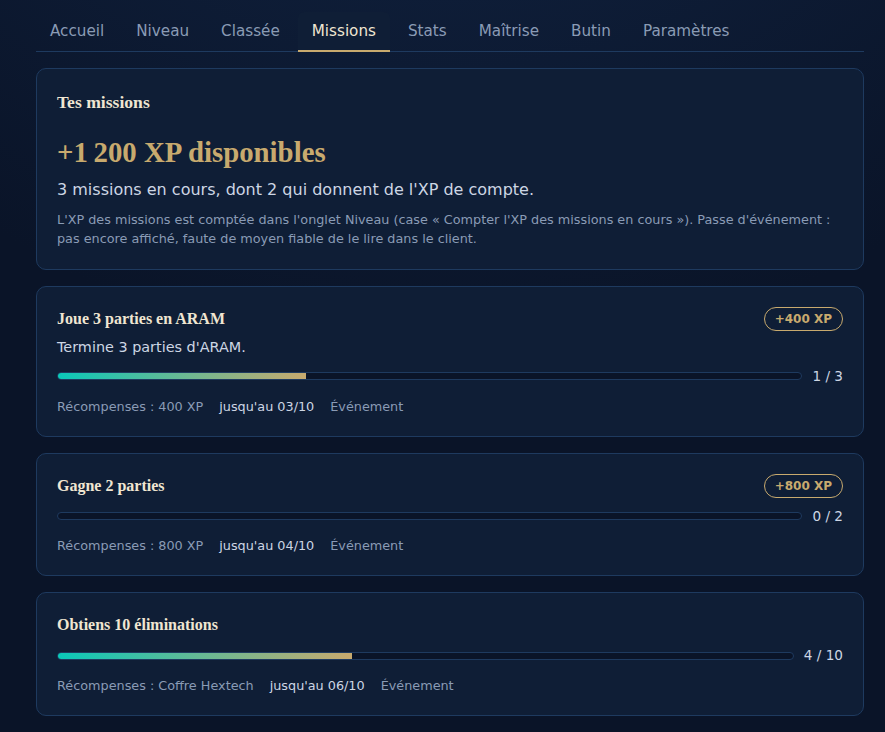
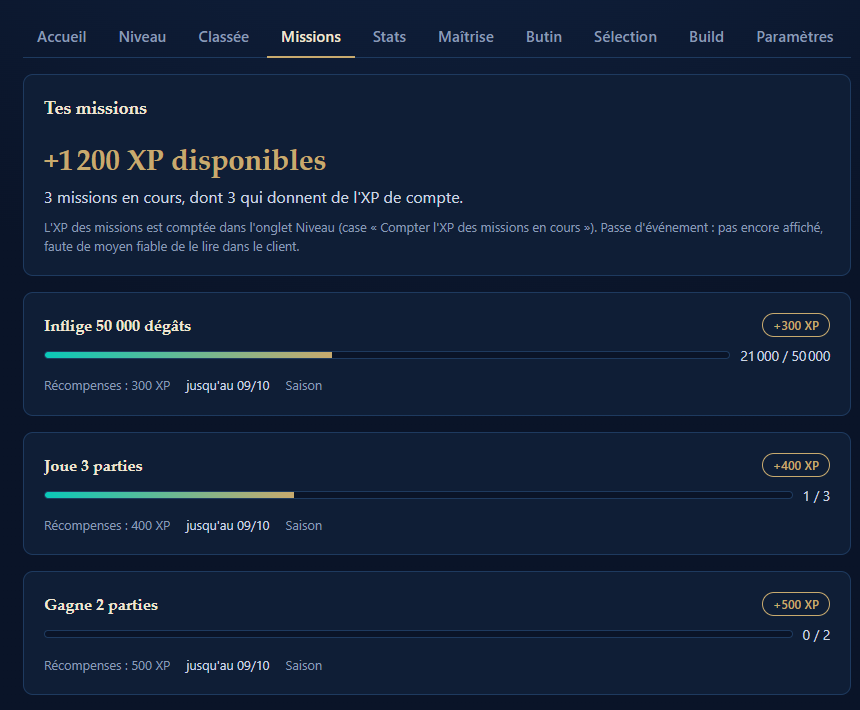
Captures à jour + correction du bandeau League », puis Commit to main et Push origin.

diff --git a/test/sondage.test.js b/test/sondage.test.js
@@ -39,7 +39,8 @@ async function fauxClient() {
   });
   await new Promise((ok) => serveur.listen(0, "127.0.0.1", ok));
   const dossier = fs.mkdtempSync(path.join(os.tmpdir(), "faux-lol-"));
-  fs.writeFileSync(path.join(dossier, "lockfile"), `LeagueClient:1:${serveur.address().port}:mdp:https`);
+  // Numéro de processus : celui du test (il existe vraiment), comme le vrai lockfile de League.
+  fs.writeFileSync(path.join(dossier, "lockfile"), `LeagueClient:${process.pid}:${serveur.address().port}:mdp:https`);
   return { etat, dossier, acceptations, fermer: () => new Promise((ok) => serveur.close(ok)) };
 }
 
@@ -120,6 +121,27 @@ test("sondage : League fermé ou qui ne répond pas encore -> état correct, auc
     sondage.arreter();
     await client.fermer();
   }
+});
+
+test("vieux lockfile (League fermé après un plantage) : considéré comme fermé, pas de « League démarre… »", async () => {
+  const dossier = fs.mkdtempSync(path.join(os.tmpdir(), "vieux-lockfile-"));
+  fs.writeFileSync(path.join(dossier, "lockfile"), "LeagueClient:999999999:65000:mdp:https"); // processus disparu
+  const etats = [];
+  const sondage = S.creerSondage({ dossierJeu: () => dossier, aEtat: (e) => etats.push(e), intervalleMs: 20 });
+  try {
+    sondage.demarrer();
+    await attendre(60);
+    assert.deepStrictEqual(sondage.etat(), { clientLance: false, clientRepond: false, phase: null });
+    assert.deepStrictEqual(S.etatPreparation({ ...sondage.etat(), directConnecte: false }), { pret: false, message: null }); // pas de bandeau
+  } finally {
+    sondage.arreter();
+  }
+});
+
+test("processus vivant : celui du test oui, un numéro disparu non, un numéro illisible on ne conclut pas", () => {
+  assert.strictEqual(S.processusVivantParDefaut(process.pid), true);
+  assert.strictEqual(S.processusVivantParDefaut(999999999), false);
+  assert.strictEqual(S.processusVivantParDefaut(NaN), true);
 });
 
 test("sondage : une erreur dans un rappel est signalée et ne casse pas le sondage", async () => {

diff --git a/sondage.js b/sondage.js
@@ -20,6 +20,23 @@ const { lireLockfile, appelerClient } = require("./lcu.js");
 const PHASES_FILE = ["Matchmaking", "ReadyCheck"];
 
 /**
+ * Le processus de League dont le numéro est écrit dans le lockfile existe-t-il encore ?
+ * Vu le 04/10/2026 : après un plantage ou un arrêt du PC, League peut laisser son lockfile ; l'appli croyait alors
+ * « League démarre… » indéfiniment alors qu'il était fermé. process.kill(pid, 0) n'arrête rien : il vérifie
+ * seulement que le processus existe (EPERM = il existe mais appartient à un autre utilisateur).
+ * Numéro absent ou illisible : on ne conclut pas (considéré vivant).
+ */
+function processusVivantParDefaut(pid) {
+  if (!Number.isInteger(pid) || pid <= 0) return true;
+  try {
+    process.kill(pid, 0);
+    return true;
+  } catch (erreur) {
+    return erreur.code === "EPERM";
+  }
+}
+
+/**
  * État de l'appli pour le bandeau de la page : { pret, message }.
  *  - League fermé : pas de bandeau (la carte « Ton compte » dit déjà « Lance League of Legends… ») ;
  *  - League lancé mais qui ne répond pas encore : il démarre ;
@@ -54,6 +71,7 @@ function creerSondage({
   intervalleMs = 1000,
   appeler = appelerClient,
   lire = lireLockfile,
+  processusVivant = processusVivantParDefaut,
 }) {
   let minuterie = null;
   let enMarche = false;
@@ -87,6 +105,7 @@ function creerSondage({
     let session;
     try {
       const connexion = lire(dossierJeu());
+      if (!processusVivant(connexion.pid)) throw new Error("vieux lockfile : League est fermé");
       etat.clientLance = true;
       const phase = await lireJson(connexion, "/lol-gameflow/v1/gameflow-phase");
       if (typeof phase === "string") {
@@ -132,4 +151,4 @@ function creerSondage({
   };
 }
 
-module.exports = { PHASES_FILE, etatPreparation, creerSondage };
+module.exports = { PHASES_FILE, processusVivantParDefaut, etatPreparation, creerSondage };

diff --git a/src/index.html b/src/index.html
@@ -505,8 +505,8 @@
             dans au moins 10 % des achats et sur 200 parties, classés par taux de victoire « prudent ».
           </p>
           <p class="aide">
-            Seules connexions à Internet de l'appli : elle n'envoie que le champion, le rôle et le mode, jamais ton
-            pseudo. Runes et set d'objets sont autorisés par Riot (comme Blitz ou Porofessor) ; tes pages et tes sets
+            Seules connexions à Internet de l'appli (Lolalytics, OP.GG, et arammayhem.com pour les augments) : elle
+            n'envoie que le champion, le rôle et le mode, jamais ton pseudo. Runes et set d'objets sont autorisés par Riot (comme Blitz ou Porofessor) ; tes pages et tes sets
             ne sont jamais modifiés, seulement ceux nommés « LoL Companion ».
           </p>
           <form id="formBuild" class="reglages-acceptation">
@@ -524,7 +524,7 @@
             </label>
             <label class="check">
               <input type="checkbox" id="buildAugments">
-              <span>Afficher les stats des augments en jeu <small>(ARAM Mayhem : % de parties où l'augment est pris avec ton champion, sous chaque carte ; OP.GG)</small></span>
+              <span>Afficher les stats des augments en jeu <small>(ARAM Mayhem : taux de victoire de chaque augment, avec ton champion si possible, sous chaque carte ; arammayhem.com)</small></span>
             </label>
           </form>
           <p class="aide">

diff --git a/README.md b/README.md
@@ -7,7 +7,8 @@ maîtrise, tes missions, et te dire si tu es prêt pour la classée.
 ![Accueil : bilan de session et résumé](docs/captures/accueil.png)
 
 *Captures faites avec un compte fictif et un faux client League (les icônes des champions sont remplacées par des
-lettres). Avec le vrai client, ce sont les icônes du jeu.*
+lettres ; avec le vrai client, ce sont les icônes du jeu). Le build de l'onglet Build vient des vraies statistiques
+publiques (Lolalytics, OP.GG).*
 
 ## Les onglets
 
@@ -40,6 +41,15 @@ lettres). Avec le vrai client, ce sont les icônes du jeu.*
 
 ### Maîtrise
 ![Onglet Maîtrise](docs/captures/maitrise.png)
+
+### Sélection
+![Onglet Sélection](docs/captures/selection.png)
+
+### Build
+![Onglet Build](docs/captures/build.png)
+
+### Augments en jeu (ARAM Mayhem)
+![Stats des augments sous chaque carte, en jeu](docs/captures/apercu-augments.png)
 
 ### Paramètres
 ![Onglet Paramètres](docs/captures/parametres.png)
@@ -119,8 +129,8 @@ Client fermé, elle affiche ton dernier compte enregistré (« Données du 30/09
 Il faut [Node.js](https://nodejs.org) (version 22 ou plus) et League of Legends installé sur le même PC.
 
 ```bash
-git clone https://github.com/TON-PSEUDO/lol-level-calculator.git
-cd lol-level-calculator
+git clone https://github.com/mohamed-ali-akir/lol-companion.git
+cd lol-companion
 npm install
 npm start
 ```
@@ -145,7 +155,7 @@ décompression rencontré avec certaines versions récentes de Node.js), puis re
 | Commande | Rôle |
 |---|---|
 | `npm start` | Lance l'appli |
-| `npm test` | Lance les tests (310) |
+| `npm test` | Lance les tests (312) |
 | `npm run build` | Crée l'installateur dans `dist/` |
 
 ## Technologies
@@ -306,6 +316,9 @@ inattendu n'est jamais une raison de planter, l'appli affiche ce qu'elle a.
   **Chien de garde** : si le client répond mais que la connexion en direct est absente, ou n'a pas transmis le dernier
   changement de phase, depuis plus de 15 s, elle est refaite (`reconnecter()`). La vérification « client prêt » a un
   temps limite (8 s) pour ne jamais bloquer les tentatives.
+  **Vieux lockfile** : après un plantage ou un arrêt du PC, League peut laisser son `lockfile` ; l'appli vérifie que le
+  processus dont le numéro y est écrit existe encore (`process.kill(pid, 0)`, qui n'arrête rien), sinon League est
+  considéré comme fermé (vu le 04/10/2026 : « League démarre… » restait affiché alors que League était fermé).
   **Bandeau** en haut de la fenêtre tant que l'appli n'est pas prête (« League démarre… », « Connexion à League en
   cours… (l'acceptation automatique fonctionne déjà) ») ; il disparaît tout seul dès qu'elle est prête.
   **Journal** (`journal.js`) : `%APPDATA%\lol-level-calculator\journal.txt` (200 Ko au plus, puis `journal.ancien.txt`)
